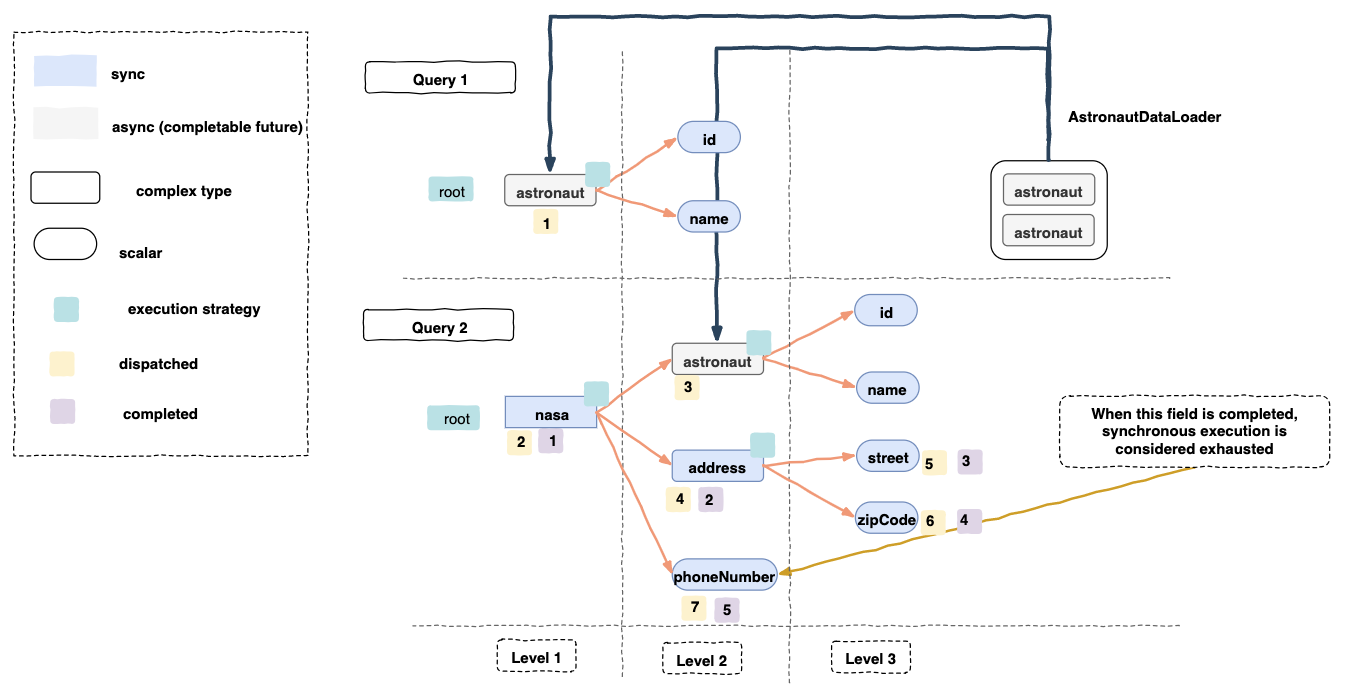
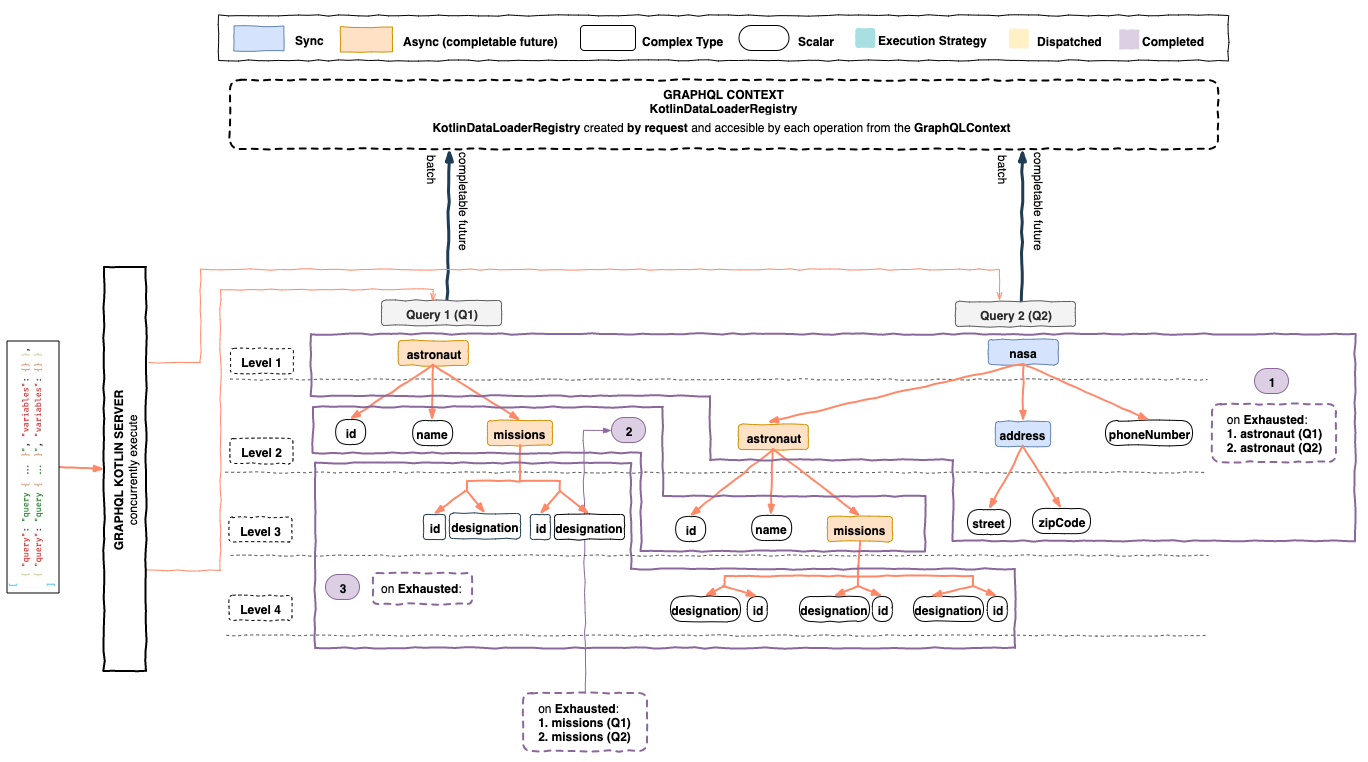
chore: update diagrams

diff --git a/website/docs/server/data-loader/data-loader-instrumentation.md b/website/docs/server/data-loader/data-loader-instrumentation.md
@@ -11,6 +11,9 @@ from `graphql-java`, the main difference is that regular instrumentations apply 
 whereas these custom instrumentations apply to multiple GraphQL operations (say a BatchRequest) and stores their state in the `GraphQLContext`.
 allowing batching and deduplication of transactions across those multiple GraphQL operations.
 
+By default, each GraphQL operation is processed independently of each other. Multiple operations can be processed
+together as if they were single GraphQL request if they are part of the same batch request.
+
 The `graphql-kotlin-dataloader-instrumentation` module contains 2 custom `DataLoader` instrumentations:
 
 1. **DataLoaderLevelDispatchedInstrumentation**
@@ -25,60 +28,63 @@ The `graphql-kotlin-dataloader-instrumentation` module contains 2 custom `DataLo
 
 ## Dispatching by level
 
- Consider the following example:
-
-![Image of data loader level dispatched instrumentation](../../assets/data-loader-level-dispatched-instrumentation.png)
-
 The `DataLoaderLevelDispatchedInstrumentation` tracks the state of all `ExecutionInputs` across operations. When a certain
 field dispatches, it will check if all fields across all operations for a particular level were dispatched and if the condition is met,
 it will dispatch all the data loaders.
 
-### Usage
+### Example
 
-```kotlin
-GraphQL
-    .instrumentation(DataLoaderLevelDispatchedInstrumentation())
-    // configure schema, type wiring, etc.
-    .build()
+**Queries**
 
-val queries = [
-    """
-      query Query1 {
-        nasa {
-          astronaut(id: 1) {
-            name
-          }
+```graphql
+query Q1 {
+    astronaut(id: 1) { # async
+        id
+        name
+        missions { # async
+            id
+            designation
         }
-      }
-    """,
-    """
-      query Query1 {
-        nasa {
-          astronaut(id: 2) {
-            name
-          }
+    }
+}
+
+query Q2 {
+    astronaut(id: 2) { # async
+        id
+        name
+        missions { # async
+            id
+            designation
         }
-      }
-    """
-]
-
-val graphQLContext = mapOf(
-    KotlinDataLoaderRegistry::class to kotlinDataLoaderRegistry,
-    SyncExecutionExhaustedState::class to ExecutionLevelDispatchedState(queries.size)
-)
-
-val result1 = graphQL.executeAsync(ExecutionInput.newExecutionInput(queries[0]).graphQLContext(graphQLContext).build())
-val result2 = graphQL.executeAsync(ExecutionInput.newExecutionInput(queries[1]).graphQLContext(graphQLContext).build())
+    }
+}
 ```
 
-In this example, the `astronaut` DataFetcher uses a `AstronautDataLoader` which will be dispatched when Level 1 of those 2 operations
-is dispatched, causing the `AstronautDataLoader` to load 2 astronauts.
+**Execution diagram**
+
+![Image of data loader level dispatched instrumentation](../../assets/data-loader-level-dispatched-instrumentation.png)
+
+* The `astronaut` `DataFetcher` uses a `AstronautDataLoader` which will be dispatched when **Level 1** of those 2 operations
+  is dispatched, causing the `AstronautDataLoader` to load 2 astronauts.
+* The `missions` `DataFetcher` uses a `MissionsByAstronautDataLoader` which will be dispatched when **Level 2** of those 2 operations
+  is dispatched, causing the `MissionsByAstronautDataLoader` to load 2 lists of missions by astronaut.
+
+### Usage on spring server
+
+```yaml
+graphql:
+  batching:
+   enabled: true
+   strategy: LEVEL_DISPATCHED
+```
+
+this configuration will add a `DataLoaderLevelDispatchedInstrumentation` instance to the `GraphQL` instance.
 
 You can find additional examples in our [unit tests](https://github.com/ExpediaGroup/graphql-kotlin/blob/master/executions/graphql-kotlin-dataloader-instrumentation/src/test/kotlin/com/expediagroup/graphql/dataloader/instrumentation/level/DataLoaderLevelDispatchedInstrumentationTest.kt).
 
 ### Limitations
 
-This instrumentation is a good option if your GraphQL Server will receive a batched request with operations of the same type,
+This instrumentation is a good option if your **GraphQLServer** will receive a batched request with operations of the same type,
 in those cases batching by level is enough, however, this solution is far from being the most optimal as we don't necessarily want to dispatch by level.
 
 ## Dispatching by synchronous execution exhaustion
@@ -102,18 +108,31 @@ Note: `DataFetcher`s are some times called "resolvers" in other graphql implemen
 
 The process of finding values for a list of fields from the GraphQL Query, using a recursive strategy.
 
-Now consider following GraphQL Query and the ExecutionStrategies:
+### Example
+
+**Queries**
 
 ```graphql
-query ComplexQuery {
+query Q1 {
     astronaut(id: 1) { # async
         id
         name
+        missions { # async
+            id
+            designation
+        }
     }
+}
+
+query Q2 {
     nasa { #sync
         astronaut(id: 2) { # async
             id
             name
+            missions { # async
+                id
+                designation
+            }
         }
         address { # sync
             street
@@ -124,66 +143,49 @@ query ComplexQuery {
 }
 ```
 
-**The order of execution of the query will be:**
-1. Start an `ExecutionStrategy` for the `root` field of the query, to concurrently resolve `astronaut` and `nasa` fields.
-    * `astronaut` **DataFetcher** will return a `CompletableFuture<Astronaut>` so we can consider this path exhausted.
-    * `nasa` **DataFetcher** will return a `Nasa` object, so we can descend more that path.
+**The order of execution of the queries will be:**
+
+***for Q1***
+1. Start an `ExecutionStrategy` for the `root` field of the query, to concurrently resolve `astronaut` field.
+    * `astronaut` **DataFetcher** will invoke the `AstronautDataLoader` and will return a `CompletableFuture<Astronaut>` so we can consider this path exhausted.
+
+***for Q2***
+1. Start an `ExecutionStrategy` for the `root` field of the query, to concurrently resolve `nasa` field.
+    * `nasa` **DataFetcher** will synchronously return a `Nasa` object, so we can descend more that path.
 2. Start an `ExecutionStrategy` for the `nasa` field of the `root` field of the query to concurrently resolve `astronaut`, `address` and `phoneNumber`.
-    * `astronaut` **DataFetcher** will return a `CompletableFuture<Astronaut>` so we can consider this path exhausted
-    * `address` **DataFetcher** will return an object, so we can descend more that path.
+    * `astronaut` **DataFetcher**  will invoke the `AstronautDataLoader` and will return a `CompletableFuture<Astronaut>` so we can consider this path exhausted
+    * `address` **DataFetcher** will synchronously return an `Address` object, so we can descend more that path.
     * `phoneNumber` **DataFetcher** will return a scalar, so we can consider this path exhausted.
 3. Start an `ExecutionStrategy` for the `address` field of the `nasa` field to concurrently resolve `street` and `zipCode`.
     * `street` **DataFetcher** will return a scalar, so we can consider this path exhausted.
     * `zipCode` **DataFetcher** will return a scalar, so we can consider this path exhausted.
 
-By default, each GraphQL operation is processed independently of each other. Multiple operations can be processed
-together as if they were single GraphQL request if they are part of the same batch request and server
-is using one of the `graphql-kotlin-dataloader-instrumentation`s.
+**At this point we can consider the synchronous execution exhausted and the `AstronautDataLoader` has 2 keys to be dispatched,
+if we proceed dispatching all data loaders the execution will continue as following:**
+
+***for Q1***
+1. Start and `ExecutionStrategy` for the `astronaut` field of the `root` field of the query to concurrently resolve `id`, `name` and `mission` fields.
+    * `id` **DataFetcher** will return a scalar, so we can consider this path exhausted.
+    * `name` **DataFetcher** will return a scalar, so we can consider this path exhausted.
+    * `missions` **DataFetcher** will invoke the `MissionsByAstronautDataLoader` and will return a `CompletableFuture<List<Mission>>` so we can consider this path exhausted.
+
+***for Q2***
+1. Start and `ExecutionStrategy` for the `astronaut` field of the `nasa` field of the query to concurrently resolve `id`, `name` and `mission` fields.
+    * `id` **DataFetcher** will return a scalar, so we can consider this path exhausted.
+    * `name` **DataFetcher** will return a scalar, so we can consider this path exhausted.
+    * `missions` **DataFetcher** will invoke the `MissionsByAstronautDataLoader` and will return a `CompletableFuture<List<Mission>>` so we can consider this path exhausted.
+
+**At this point we can consider the synchronous execution exhausted and the `MissionsByAstronautDataLoader` has 2 keys to be dispatched,
+if we proceed dispatching all data loaders the execution will continue to just resolve scalar fields.**
 
 ![Image of data loader level dispatched instrumentation](../../assets/data-loader-level-sync-executon-exhausted-instrumentation.png)
 
-### Usage
-```kotlin
-GraphQL
-    .instrumentation(DataLoaderLevelDispatchedInstrumentation())
-    // configure schema, type wiring, etc.
-    .build()
-
-val queries = [
-    """
-      query Query1 {
-        astronaut(id: 1) {
-            id
-            name
-        }
-      }
-    """,
-    """
-      query Query1 {
-        nasa {
-          astronaut(id: 2) {
-            id
-            name
-          }
-          address {
-            street
-            zipCode
-        }
-      }
-    """
-]
-
-val graphQLContext = mapOf(
-    KotlinDataLoaderRegistry::class to kotlinDataLoaderRegistry,
-    SyncExecutionExhaustedState::class to SyncExecutionExhaustedState(queries.size, kotlinDataLoaderRegistry)
-)
-
-val result1 = graphQL.executeAsync(ExecutionInput.newExecutionInput(queries[0]).graphQLContext(graphQLContext).build())
-val result2 = graphQL.executeAsync(ExecutionInput.newExecutionInput(queries[1]).graphQLContext(graphQLContext).build())
+### Usage on spring server
+```yaml
+graphql:
+  batching:
+    enabled: true
+    strategy: SYNC_EXHAUSTION
 ```
 
 You can find additional examples in our [unit tests](https://github.com/ExpediaGroup/graphql-kotlin/blob/master/executions/graphql-kotlin-dataloader-instrumentation/src/test/kotlin/com/expediagroup/graphql/dataloader/instrumentation/syncexhaustion/DataLoaderSyncExecutionExhaustedInstrumentationTest.kt).
-
-
-If you are using [graphql-kotlin-spring-server](../spring-server/spring-overview.mdx), you can decide which instrumentation to use through configurations
-and spring will do the autoconfiguration for you, check [configuration properties of spring server](../spring-server/spring-properties.md).
